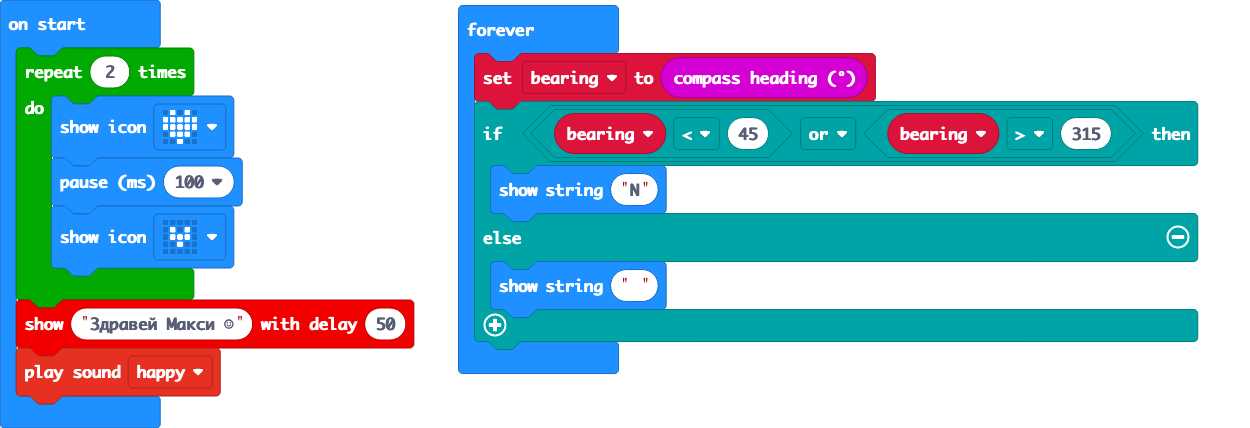
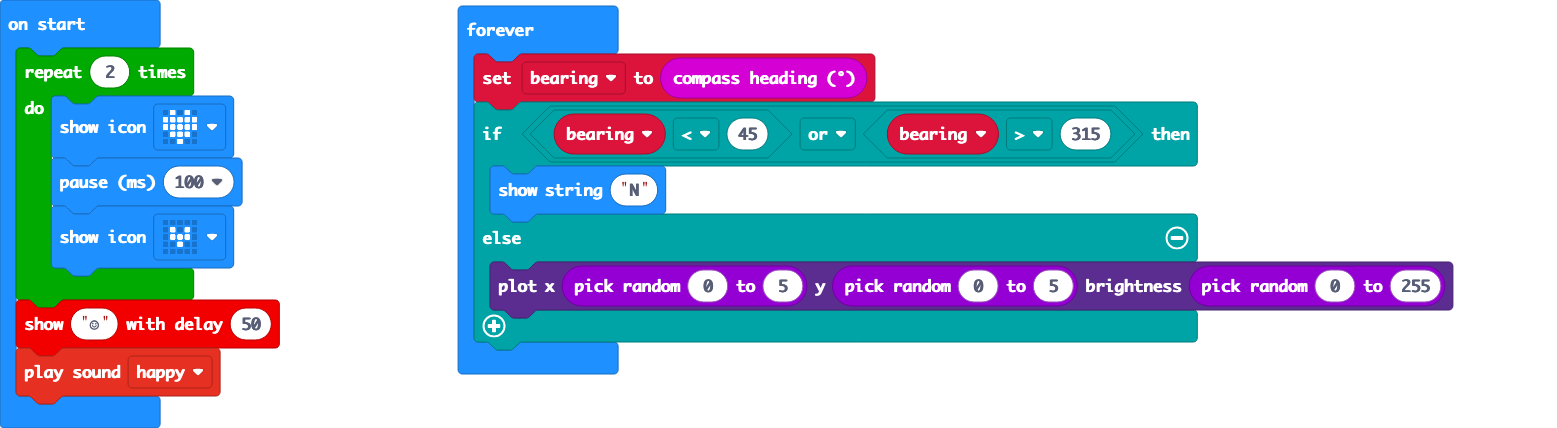
Update main.blocks, main.ts

diff --git a/main.ts b/main.ts
@@ -4,13 +4,13 @@ for (let index = 0; index < 2; index++) {
     basic.pause(100)
     basic.showIcon(IconNames.SmallHeart)
 }
-RussianFont.showMessage("Здравей Макси ☺", 50)
+RussianFont.showMessage("☺", 50)
 soundExpression.happy.play()
 basic.forever(function () {
     bearing = input.compassHeading()
     if (bearing < 45 || bearing > 315) {
         basic.showString("N")
     } else {
-        basic.showString(" ")
+        led.plotBrightness(randint(0, 5), randint(0, 5), randint(0, 255))
     }
 })
